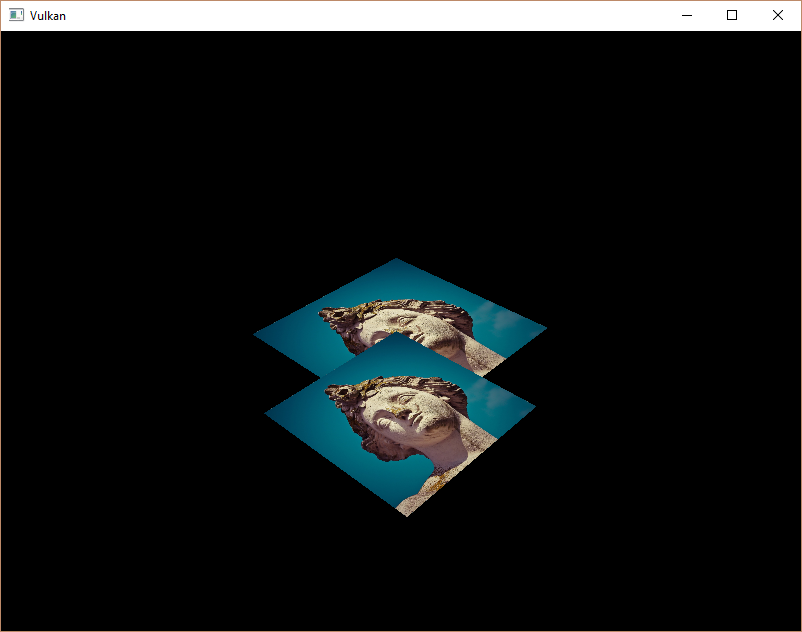
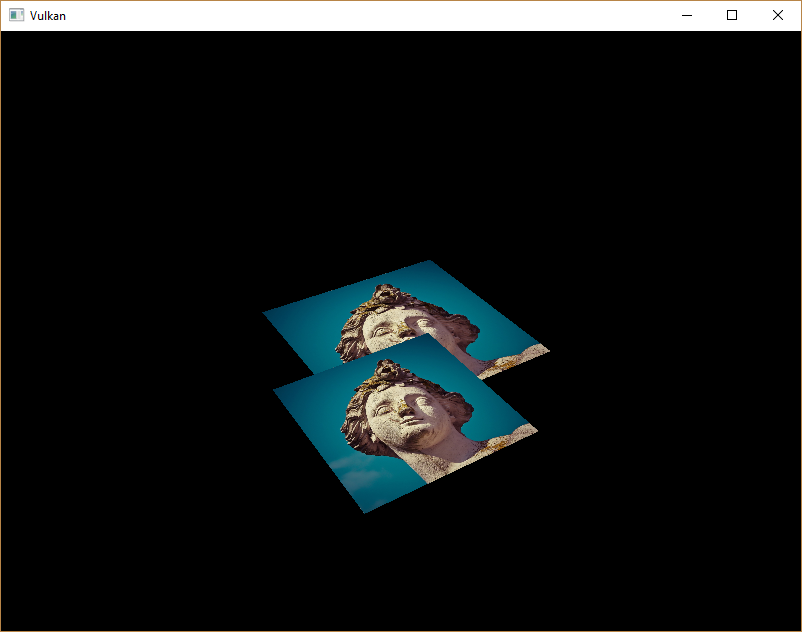
Fix texture coordinates being horizontally flipped

diff --git a/code/depth_buffering.cpp b/code/depth_buffering.cpp
@@ -110,15 +110,15 @@ struct UniformBufferObject {
 };
 
 const std::vector<Vertex> vertices = {
-    {{-0.5f, -0.5f, 0.0f}, {1.0f, 0.0f, 0.0f}, {0.0f, 0.0f}},
-    {{0.5f, -0.5f, 0.0f}, {0.0f, 1.0f, 0.0f}, {1.0f, 0.0f}},
-    {{0.5f, 0.5f, 0.0f}, {0.0f, 0.0f, 1.0f}, {1.0f, 1.0f}},
-    {{-0.5f, 0.5f, 0.0f}, {1.0f, 1.0f, 1.0f}, {0.0f, 1.0f}},
+    {{-0.5f, -0.5f, 0.0f}, {1.0f, 0.0f, 0.0f}, {1.0f, 0.0f}},
+    {{0.5f, -0.5f, 0.0f}, {0.0f, 1.0f, 0.0f}, {0.0f, 0.0f}},
+    {{0.5f, 0.5f, 0.0f}, {0.0f, 0.0f, 1.0f}, {0.0f, 1.0f}},
+    {{-0.5f, 0.5f, 0.0f}, {1.0f, 1.0f, 1.0f}, {1.0f, 1.0f}},
 
-    {{-0.5f, -0.5f, -0.5f}, {1.0f, 0.0f, 0.0f}, {0.0f, 0.0f}},
-    {{0.5f, -0.5f, -0.5f}, {0.0f, 1.0f, 0.0f}, {1.0f, 0.0f}},
-    {{0.5f, 0.5f, -0.5f}, {0.0f, 0.0f, 1.0f}, {1.0f, 1.0f}},
-    {{-0.5f, 0.5f, -0.5f}, {1.0f, 1.0f, 1.0f}, {0.0f, 1.0f}}
+    {{-0.5f, -0.5f, -0.5f}, {1.0f, 0.0f, 0.0f}, {1.0f, 0.0f}},
+    {{0.5f, -0.5f, -0.5f}, {0.0f, 1.0f, 0.0f}, {0.0f, 0.0f}},
+    {{0.5f, 0.5f, -0.5f}, {0.0f, 0.0f, 1.0f}, {0.0f, 1.0f}},
+    {{-0.5f, 0.5f, -0.5f}, {1.0f, 1.0f, 1.0f}, {1.0f, 1.0f}}
 };
 
 const std::vector<uint16_t> indices = {

diff --git a/code/texture_mapping.cpp b/code/texture_mapping.cpp
@@ -109,10 +109,10 @@ struct UniformBufferObject {
 };
 
 const std::vector<Vertex> vertices = {
-    {{-0.5f, -0.5f}, {1.0f, 0.0f, 0.0f}, {0.0f, 0.0f}},
-    {{0.5f, -0.5f}, {0.0f, 1.0f, 0.0f}, {1.0f, 0.0f}},
-    {{0.5f, 0.5f}, {0.0f, 0.0f, 1.0f}, {1.0f, 1.0f}},
-    {{-0.5f, 0.5f}, {1.0f, 1.0f, 1.0f}, {0.0f, 1.0f}}
+    {{-0.5f, -0.5f}, {1.0f, 0.0f, 0.0f}, {1.0f, 0.0f}},
+    {{0.5f, -0.5f}, {0.0f, 1.0f, 0.0f}, {0.0f, 0.0f}},
+    {{0.5f, 0.5f}, {0.0f, 0.0f, 1.0f}, {0.0f, 1.0f}},
+    {{-0.5f, 0.5f}, {1.0f, 1.0f, 1.0f}, {1.0f, 1.0f}}
 };
 
 const std::vector<uint16_t> indices = {

diff --git a/06_Texture_mapping/02_Combined_image_sampler.md b/06_Texture_mapping/02_Combined_image_sampler.md
@@ -151,10 +151,10 @@ square.
 
 ```c++
 const std::vector<Vertex> vertices = {
-    {{-0.5f, -0.5f}, {1.0f, 0.0f, 0.0f}, {0.0f, 0.0f}},
-    {{0.5f, -0.5f}, {0.0f, 1.0f, 0.0f}, {1.0f, 0.0f}},
-    {{0.5f, 0.5f}, {0.0f, 0.0f, 1.0f}, {1.0f, 1.0f}},
-    {{-0.5f, 0.5f}, {1.0f, 1.0f, 1.0f}, {0.0f, 1.0f}}
+    {{-0.5f, -0.5f}, {1.0f, 0.0f, 0.0f}, {1.0f, 0.0f}},
+    {{0.5f, -0.5f}, {0.0f, 1.0f, 0.0f}, {0.0f, 0.0f}},
+    {{0.5f, 0.5f}, {0.0f, 0.0f, 1.0f}, {0.0f, 1.0f}},
+    {{-0.5f, 0.5f}, {1.0f, 1.0f, 1.0f}, {1.0f, 1.0f}}
 };
 ```
 
